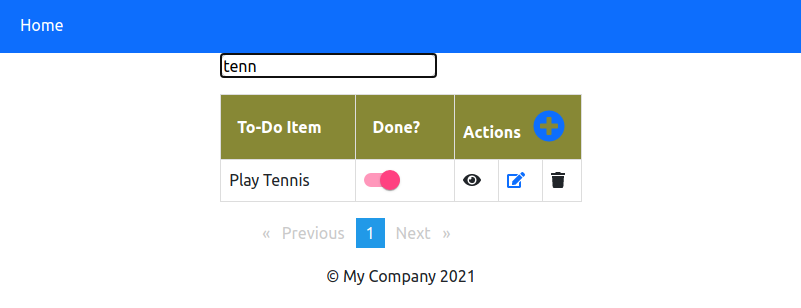
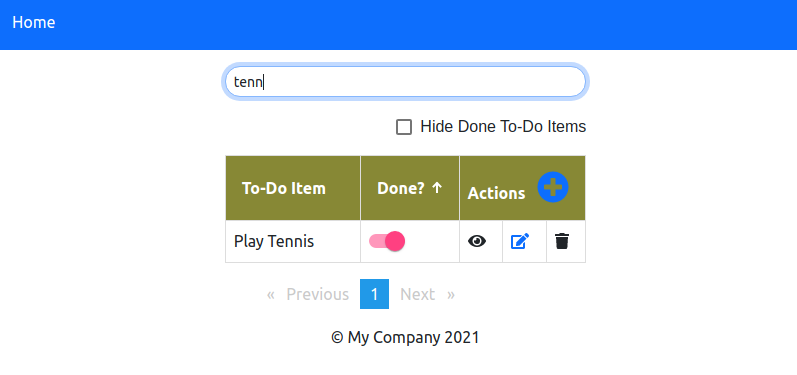
added feature to hide and show to-do items; converted details to textarea; updated screenshots

Changed region(s): [[0.0, 0.0292, 1.0, 0.6721], [0.3312, 0.7013, 0.5721, 0.8474], [0.3915, 0.8766, 0.6023, 0.9351]]

diff --git a/todo-client/src/app/get-items/get-items.component.html b/todo-client/src/app/get-items/get-items.component.html
@@ -1,11 +1,17 @@
 <ngx-spinner bdColor="rgba(0,0,0,0.8)" size="medium" color="#fff" type="square-jelly-box" [fullscreen]="true">
     <p style="color: white"> Loading...</p>
 </ngx-spinner>
-<input [(ngModel)]="searchText" placeholder=" Search within To-Do items ..... ">
+<p></p>
+<input class="form-control form-control-sm ml-3 w-80 form-rounded" type="text"  [(ngModel)]="searchText" placeholder=" Search within To-Do items ..... ">
 <p></p>
 
-<table class="table table-hover" matSort (matSortChange)="sortData($event)" matSortActive="env" matSortDirection="asc"
-    matSortDisableClear>
+<p style="text-align: right;">
+    <mat-checkbox (change)="showOptions($event)" >Hide Done To-Do Items</mat-checkbox>
+</p>
+
+
+<table class="table table-hover" matSort (matSortChange)="sortData($event)" matSortActive="is_done"
+    matSortDirection="asc" matSortDisableClear>
     <tr>
         <th mat-sort-header="name">To-Do Item</th>
         <th mat-sort-header="is_done">Done?</th>

diff --git a/todo-client/src/app/get-items/get-items.component.ts b/todo-client/src/app/get-items/get-items.component.ts
@@ -9,6 +9,7 @@ import Item from '../_models/Item';
 import { faPlusCircle, faEdit, faEye, faTrash } from '@fortawesome/free-solid-svg-icons';
 import { ViewItemComponent } from '../view-item/view-item.component';
 import { NgxSpinnerService } from 'ngx-spinner';
+import { MatCheckboxChange } from '@angular/material/checkbox';
 
 @Component({
   selector: 'app-get-items',
@@ -102,6 +103,16 @@ export class GetItemsComponent implements OnInit {
     });
     this.spinner.hide();
   }
+
+  showOptions(event: MatCheckboxChange): void {
+    // set the event value to searchText for grdFilter to handle
+    if (event.checked) {
+      this.searchText = "false";
+    }else{
+      this.searchText = '';
+    }
+  }
+
 }
 
 

diff --git a/todo-client/src/app/edit-item/edit-item.component.html b/todo-client/src/app/edit-item/edit-item.component.html
@@ -13,7 +13,8 @@
             </div>
             <div class="form-group">
                 <label class="col-md-4">Details</label>
-                <input type="text" class="form-control" formControlName="details" #details [(ngModel)]="item.details" />
+                <textarea class="form-control form-rounded" rows="3" formControlName="details" #details
+                    [(ngModel)]="item.details"></textarea>
             </div>
             <div class="form-group">
                 <label class="col-md-4">Done? </label>

diff --git a/todo-client/src/app/view-item/view-item.component.html b/todo-client/src/app/view-item/view-item.component.html
@@ -1,7 +1,6 @@
 <table class="table table-hover">
     <tr>
         <th>To-Do Item</th>
-        <th>Done?</th>
         <th>Details</th>
         <th>To-Do Date</th>
     </tr>
@@ -10,9 +9,6 @@
         <tr>
             <td>
                 <div [innerHTML]="name"></div>
-            </td>
-            <td>
-                <div [innerHTML]="is_done"></div>
             </td>
             <td>
                 <div [innerHTML]="details"></div>

diff --git a/todo-client/src/app/add-item/add-item.component.html b/todo-client/src/app/add-item/add-item.component.html
@@ -13,7 +13,7 @@
             </div>
             <div class="form-group">
                 <label class="col-md-4">Details</label>
-                <input type="text" class="form-control" formControlName="details" #details />
+                <textarea class="form-control form-rounded" rows="3" formControlName="details" #details></textarea>
             </div>
             <div class="form-group">
                 <mat-form-field>

diff --git a/todo-client/src/styles.css b/todo-client/src/styles.css
@@ -2,7 +2,6 @@
 
 @import "~@angular/material/prebuilt-themes/indigo-pink.css";
 @import "~bootstrap/dist/css/bootstrap.min.css";
-
 .mat-sort-header-arrow {
     color: #fff !important;
 }
@@ -13,6 +12,10 @@
 
 .mat-tooltip {
     font-size: 14px !important;
+}
+
+.form-rounded {
+    border-radius: 1rem;
 }
 
 .content {

diff --git a/todo-api/src/main/java/com/mycom/controller/ItemController.java b/todo-api/src/main/java/com/mycom/controller/ItemController.java
@@ -21,6 +21,10 @@ import org.springframework.web.bind.annotation.RestController;
 import com.mycom.model.Item;
 import com.mycom.repository.ItemRespository;
 
+/**
+ * @author anavulla
+ *
+ */
 @CrossOrigin(origins = "*", allowedHeaders = "*")
 @RestController
 public class ItemController {
@@ -30,6 +34,9 @@ public class ItemController {
 
 	private static final Logger LOGGER = LoggerFactory.getLogger(ItemController.class);
 
+	/**
+	 * @return
+	 */
 	@GetMapping(path = "/item", produces = MediaType.APPLICATION_JSON_VALUE)
 	public ResponseEntity<List<Item>> getItems() {
 		List<Item> items = null;
@@ -48,6 +55,10 @@ public class ItemController {
 
 	}
 
+	/**
+	 * @param item
+	 * @return
+	 */
 	@PostMapping(path = "/item/add", produces = MediaType.APPLICATION_JSON_VALUE)
 	@ResponseStatus(code = HttpStatus.CREATED)
 	public ResponseEntity<Item> addItem(@RequestBody Item item) {
@@ -72,6 +83,10 @@ public class ItemController {
 
 	}
 
+	/**
+	 * @param itemId
+	 * @return
+	 */
 	@GetMapping(path = "/item/get/{itemId}", produces = MediaType.APPLICATION_JSON_VALUE)
 	public ResponseEntity<Item> getItemById(@PathVariable String itemId) {
 		Item item = null;
@@ -90,6 +105,10 @@ public class ItemController {
 
 	}
 	
+	/**
+	 * @param item
+	 * @return
+	 */
 	@PostMapping(path = "/item/delete", produces = MediaType.APPLICATION_JSON_VALUE)
 	public ResponseEntity<Item> deleteItem(@RequestBody Item item) {
 		try {

diff --git a/README.md b/README.md
@@ -1,6 +1,6 @@
 
 The `todo-api` app leverages Java 8 RESTful Web Services to store and retrieve data using MySQL.
-The `todo-client` app leverages angular 10 to todo-api app.
+The `todo-client` app leverages angular 10 to make RESTful API calls to todo-api app.
 
 
 # To-Do API
@@ -78,6 +78,9 @@ The client app can be accessible on http://localhost:4200 (assuming 4200 is defa
 ### toggle to mark to-do item as done 
 ##### (more items added)
 ![Screenshots](screenshots/toggle_done.png)
+
+### hide done items
+![Screenshots](screenshots/hide_done.png)
 
 ### search
 ![Screenshots](screenshots/search.png)
